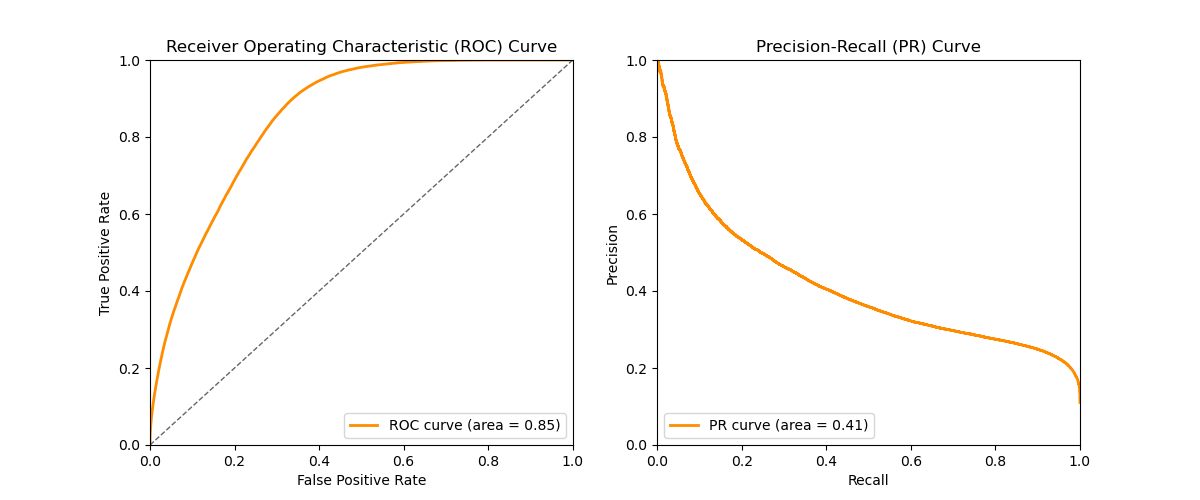
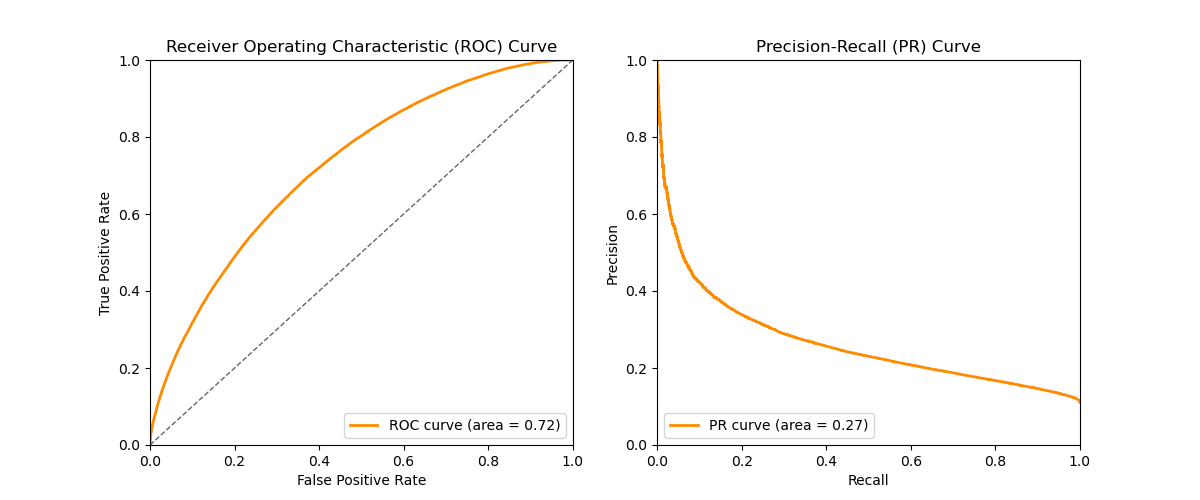
upload

diff --git a/ehr_models.py b/ehr_models.py
@@ -20,7 +20,7 @@ def init_adaBoost(default_parm=True):
     if default_parm:
         model_adaboost = AdaBoostClassifier()
     else:
-        model_adaboost = AdaBoostClassifier(estimator=DecisionTreeClassifier(class_weight='balanced',), n_estimators=200, learning_rate=1.0, random_state=42)
+        model_adaboost = AdaBoostClassifier(estimator=RandomForestClassifier(max_depth=1,n_jobs=-1))
     return model_adaboost
 
 
@@ -46,7 +46,7 @@ def init_gaussianNB(default_parm=True):
     This function initializes the Gaussian Naive Bayes classifier model.
     """
     if default_parm:
-        model_gaussianNB = GaussianNB()
+        model_gaussianNB = GaussianNB(priors=[0.3, 0.7])
     else:
         model_gaussianNB = GaussianNB(priors=[0.3, 0.7], var_smoothing=1e-11)
     return model_gaussianNB
@@ -68,9 +68,9 @@ def init_lightGBM(default_parm=True):
     This function initializes the LightGBM classifier model.
     """
     if default_parm:
-        model_lgbm = LGBMClassifier()
+        model_lgbm = LGBMClassifier(sample_weight=4.0)
     else:
-        model_lgbm = LGBMClassifier(boosting_type='gbdt', num_leaves=96, max_depth=3, learning_rate=0.11, n_estimators=400)
+        model_lgbm = LGBMClassifier(boosting_type='gbdt', num_leaves=96, max_depth=3, learning_rate=0.11, n_estimators=400, class_weight={0: 1, 1: 5})
     return model_lgbm
 
 
@@ -79,9 +79,9 @@ def init_linearDiscriminantAnalysis(default_parm=True):
     This function initializes the Linear Discriminant Analysis classifier model.
     """
     if default_parm:
-        model_linearDiscriminantAnalysis = LinearDiscriminantAnalysis()
+        model_linearDiscriminantAnalysis = LinearDiscriminantAnalysis(priors=[0.3, 0.7])
     else:
-        model_linearDiscriminantAnalysis = LinearDiscriminantAnalysis(solver='svd', shrinkage=None)
+        model_linearDiscriminantAnalysis = LinearDiscriminantAnalysis(solver='svd', shrinkage=None, priors=[0.3, 0.7])
     return model_linearDiscriminantAnalysis
 
 
@@ -90,9 +90,9 @@ def init_logisticRegression(default_parm=True):
     This function initializes the Logistic Regression classifier model.
     """
     if default_parm:
-        model_logisticRegression = LogisticRegression()
+        model_logisticRegression = LogisticRegression(class_weight='balanced')
     else:
-        model_logisticRegression = LogisticRegression(C=8.07, solver='liblinear', max_iter=100, random_state=42)
+        model_logisticRegression = LogisticRegression(C=8.07, solver='liblinear', max_iter=100, random_state=42, class_weight='balanced')
     return model_logisticRegression
 
 

diff --git a/ehr_utils.py b/ehr_utils.py
@@ -13,10 +13,11 @@ import pandas as pd
 from sklearn.utils import resample
 
 
-def get_train_test(df, name='roc_pr', train_size=0.8, random_state=42) -> List:
+def get_train_test(data_path, name='roc_pr', train_size=0.8, random_state=42) -> List:
     """
     自定义划分函数,将df直接划分为训练集和测试集。
     """
+    df = pd.read_csv(data_path)
     y = df.pop('have_stone')
     x = df
     return train_test_split(x, y, train_size=train_size, random_state=random_state, stratify=y)

diff --git a/train_all_models.py b/train_all_models.py
@@ -25,7 +25,7 @@ def train_and_save_all_models(file_path,method='default'):
     # 遍历每个模型，训练并保存
     for model_name, init_func in tqdm(model_initializers.items()):
         print(f"Training {model_name}...")
-        model = init_func(default_parm=False)  # 使用默认参数
+        model = init_func(default_parm=False) 
         model.fit(X_train, Y_train)
         print(f"Model training completed for {model_name}.")
 
